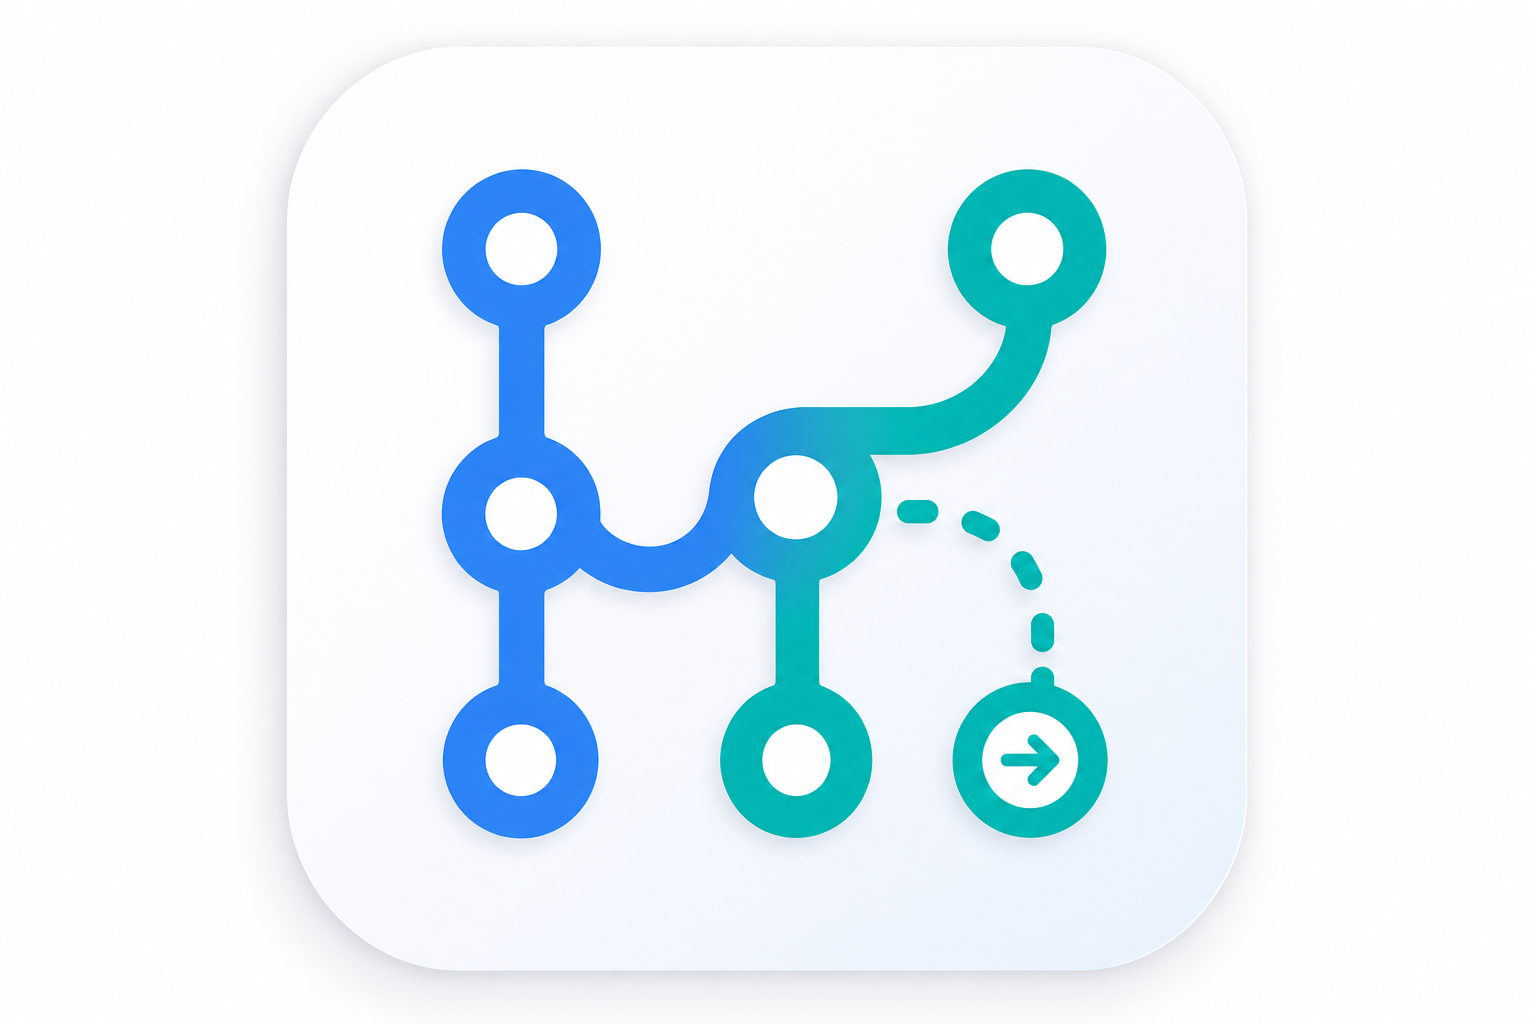
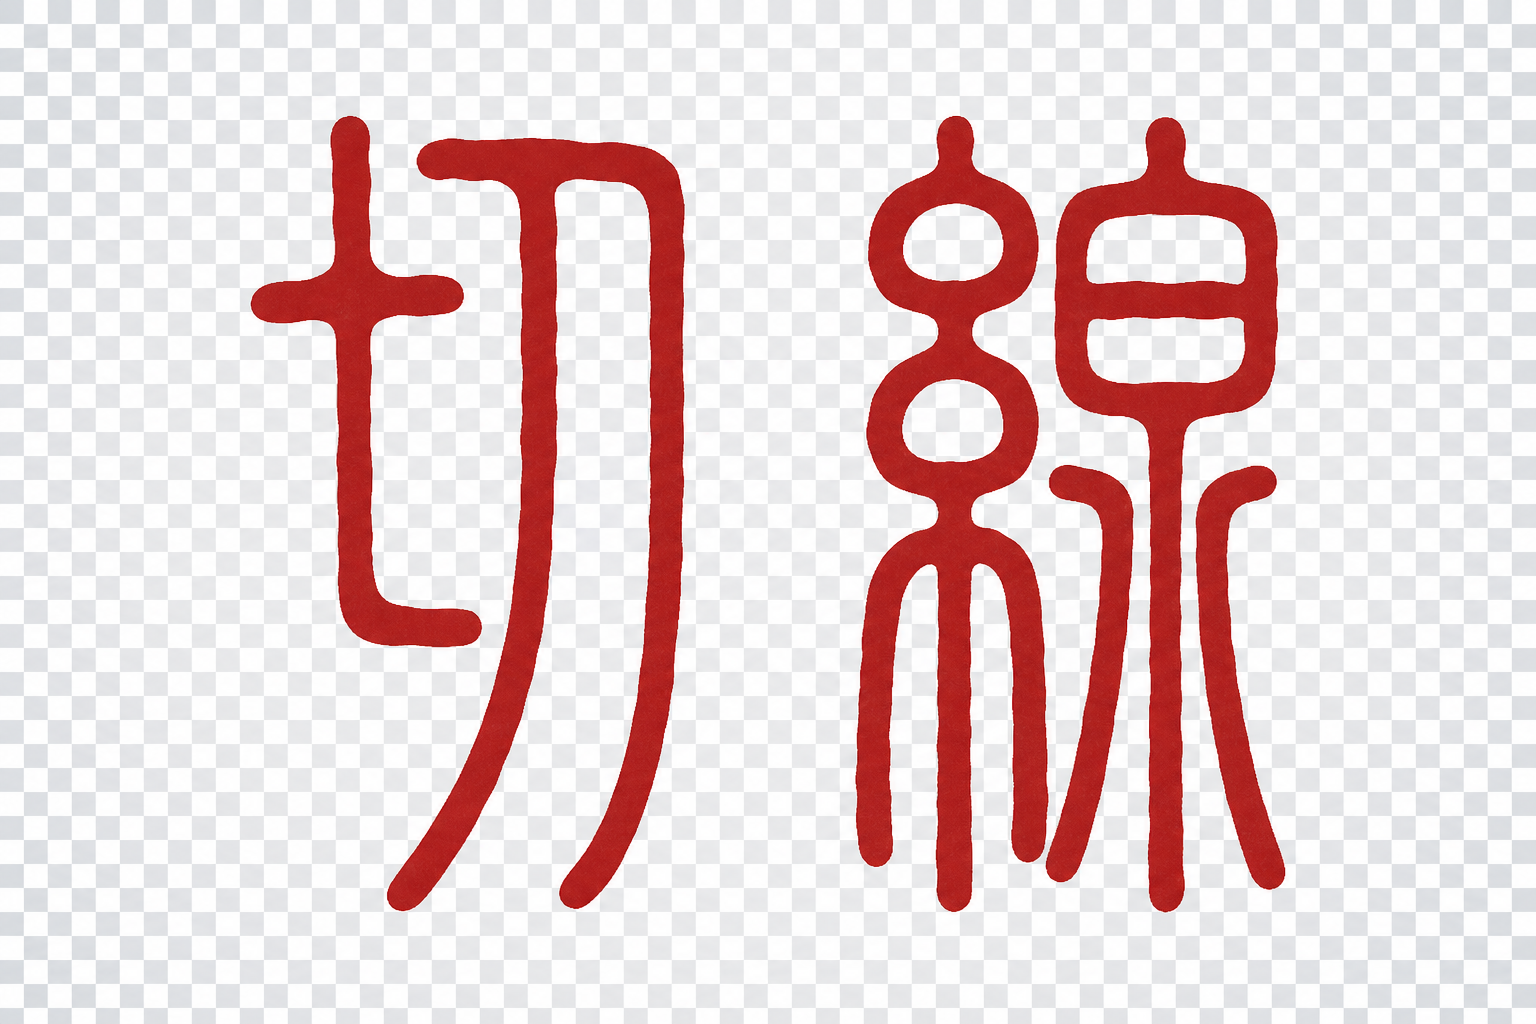
fix: 切线完成后主线程关进度窗；图标改为小篆「切線」
- queue_switch_done/fail 经 dispatch_to_main 直接调用 on_done/on_fail，去掉不可靠的 QTimer 嵌套

- Windows 构建脚本在卸载 typing 时临时放宽 ErrorAction，避免 stderr 中断

- 应用图标更新为繁体「切線」小篆风格并重生成 icon.ico

diff --git a/src/git_gui/ui/main_window.py b/src/git_gui/ui/main_window.py
@@ -706,16 +706,12 @@ class MainWindow(QMainWindow):
             return results
 
         def queue_switch_done(results):
-            """必须回到主线程再收尾：finished 从线程池发出时，直连槽会在后台线程执行，
-            此时 QTimer 绑定主窗口无效，会导致进度弹窗永远不关。"""
-            self.dispatch_to_main.emit(
-                lambda r=results: QTimer.singleShot(0, self, lambda: on_done(r))
-            )
+            """Worker 的 finished 可能在工作线程触发；必须通过 dispatch_to_main 在主线程执行 on_done，
+            否则 QProgressDialog 的 accept/close 无效，弹窗会卡在 100%。"""
+            self.dispatch_to_main.emit(lambda r=results: on_done(r))
 
         def queue_switch_fail(err):
-            self.dispatch_to_main.emit(
-                lambda e=err: QTimer.singleShot(0, self, lambda: on_fail(e))
-            )
+            self.dispatch_to_main.emit(lambda e=err: on_fail(e))
 
         worker = Worker(run_all_with_cancel_check)
         worker.setAutoDelete(False)